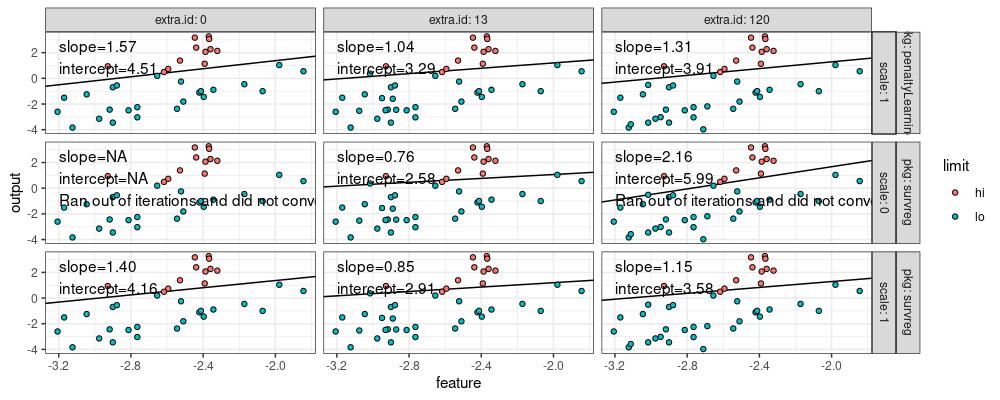
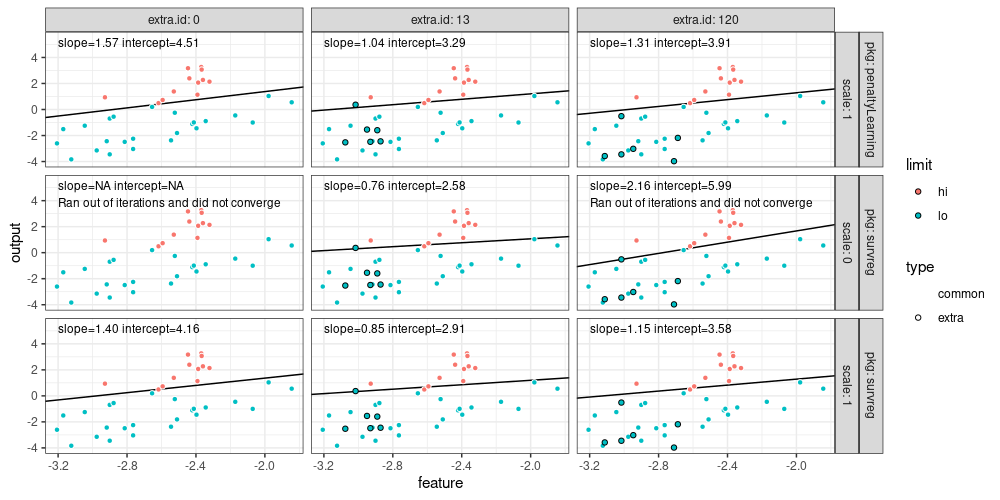
redo figure

Changed region(s): [[0.0, 0.0, 0.992, 0.99]]

diff --git a/_posts/2024-08-20-bisect-survival.md b/_posts/2024-08-20-bisect-survival.md
@@ -19,7 +19,7 @@ doctors who were interested in classifying tumors based on their DNA
 copy number profiles. These data sets are like time series, but
 measured along space (positions on a chromosome), rather than time. If
 there are abrupt changes within a sequence, then the tumor is said to
-have ``segmental copy number alternations,'' and is likely to require
+have "segmental copy number alternations," and is likely to require
 more aggressive treatment (compared to a more benign sub-type in which
 these abrupt changes are not present).
 
@@ -94,35 +94,43 @@ linear models, as described in the recent [JSS
 paper](https://www.jstatsoft.org/article/view/v106i01).
 
 Another supervised change-point detection algorithm, similar to our
-ICML'13 paper, was proposed by Charles Truong in EUSIPCO'17, but there
-is no R package that implements this method.
+ICML'13 paper, was proposed by Truong et al in
+[EUSIPCO'17](http://laurentoudre.fr/publis/TOV-EUSIPCO-17.pdf), but
+there is no R package that implements this method.
 
 ## Issue
 
-Back in 2017 when I was preparing the tutorial for useR, I ran into an
-[issue](https://github.com/therneau/survival/issues/8) about `survreg`
-not converging when all train labels are censored. After that fix,
+Back in 2017 when I was preparing the tutorial for useR, I ran into an issue, which I posted as
+[survival/issue#8](https://github.com/therneau/survival/issues/8) about `survreg`
+not converging when all train labels are censored. In the case of my data, all outputs
+are censored, which is normal for supervised change-point problems,
+but rather unusual for survival analysis (where there is typically at
+least one observation that is not censored). Because the "all
+censored" train data is a rather niche use case for the survival AFT
+model, I suppose it is not very well tested, so it is normal to expect
+issues with such code. 
+
+After that issue was eventually fixed, 
 survreg worked well enough so that I could use it to prepare [my
 useR'17 tutorial on supervised change-point
 detection](https://tdhock.github.io/change-tutorial/Supervised.html). 
-
 Recently, a GSOC student tried reproducing some code from that time. 
 
-* The related [issue#1](https://github.com/tdhock/change-tutorial/issues/1) begin with Nhi observing the error "Supplied 2 items to be assigned to 1 items."
+* The related issue, [change-tutorial/issue#1](https://github.com/tdhock/change-tutorial/issues/1) begins with Nhi observing the error "Supplied 2 items to be assigned to 1 items."
 * Using current R-4.4.1, I re-ran [my old R
   code from 2017](https://github.com/tdhock/change-tutorial/blob/efbec88d4d7e77f16f0cdc8a56ea17709b576852/figure-regression-interactive-some.R),
   which gave me warning "Ran out of iterations and did not converge" and
   error "pred must be a numeric vector or matrix with neither missing
   nor infinite entries" and saw that the problem was that survreg is
-  returning missing values for the learned coefficients.
+  returning missing values for the learned coefficients (where finite values were expected in the previous code).
 * I made a copy of the R code, and edited it to make [a minimal
   reproducible example which demonstrates the bug](
   https://github.com/tdhock/change-tutorial/blob/master/figure-regression-interactive-some-bug.R).
-  That code runs survreg with three small data sets (few dozen data each).
-  Running that code with `survival_3.6-4` I get
-  * extra.id=0 NA coefs, convergence failed. Here I expected finite coefs, as I observed in 2017.
-  * extra.id=13 finite coefs, converged.
-  * extra.id=120 finite coefs, convergence failed.
+  That code runs survreg with three small data sets, each identified with a different value of `extra.id`, and each with a few dozen data/rows.
+  Running that code with `survival_3.6-4` I get the following results, for the data with:
+  * `extra.id=0`: NA coefs, convergence failed. Here I expected finite coefs, as I observed in 2017, after Terry fixed [survival/issue#8](https://github.com/therneau/survival/issues/8).
+  * `extra.id=13`: finite coefs, converged. This was an expected result.
+  * `extra.id=120`: finite coefs, convergence failed. This was also unexpected, because it is inconsistent with the other two data sets above.
 * I filed
   [survival/issue#270](https://github.com/therneau/survival/issues/270),
   which includes a figure that illustrates the issue, along with the
@@ -149,19 +157,12 @@ Another work-around involves understanding how the survreg
 optimization algorithm works. The survreg algorithm uses gradient
 descent, which optimizes the coefficients to fit the train data
 (maximize AFT log likelihood). Using the default `scale=0` means to
-also optimize the scale parameter. In the case of my data, all outputs
-are censored, which is normal for supervised change-point problems,
-but rather unusual for survival analysis (where there is typically at
-least one observation that is not censored). Because the "all
-censored" train data is a rather niche use case for the survival AFT
-model, I suppose it is not very well tested, so it is normal to expect
-issues with such code. With the case of small data which are all
-censored, there is another issue: the data may be separable, which
+also optimize the scale parameter. With the case of small data which are all
+censored, there is an issue with optimizing the scale: the data may be separable, which
 means there is a regression line that correctly predicts inside of
 every interval label in the train set. In that case, decreasing the
 scale parameter (subject to the constraint that it must stay positive)
-will always increase the log likelihood, resulting in an optimization
-problem that is singular (undefined solution). To work-around that
+will always increase the log likelihood. To work-around that
 issue, you could use `survreg(scale=1)` which means to fix the scale
 parameter to the (relatively large) value of 1, instead of optimizing
 it in gradient descent. 
@@ -478,12 +479,18 @@ model.df <- rbind(
   data.frame(pkg="penaltyLearning", scale=1),
   data.frame(pkg="survreg", scale=0),
   data.frame(pkg="survreg", scale=1))
+common.ids <- c(1, 4, 6, 8, 10, 11)
 dot.df.list <- list()
 coef.df.list <- list()
 for(extra.id in c(0,13,120)){
-  sub.df <- subset(full.df, id %in% c(1, 4, 6, 8, 10, 11, extra.id))
+  sub.df <- transform(
+    subset(full.df, id %in% c(common.ids, extra.id)),
+    type=ifelse(id %in% common.ids, "common", "extra"))
+  X <- with(sub.df, cbind(1, feature))
+  print(chol(t(X) %*% X))
   for(model.i in 1:nrow(model.df)){
     model.row <- model.df[model.i,]
+    rownames(model.row) <- NULL
     model.fun <- model.fun.list[[model.row$pkg]]
     this.df <- data.frame(extra.id, model.row, warn.text="")
     set.warn <- function(w)this.df$warn.text <<- w$message
@@ -494,18 +501,20 @@ for(extra.id in c(0,13,120)){
     }
     withCallingHandlers(set.coefs(), warning=set.warn)
     coef.df.list[[paste(extra.id, model.i)]] <- this.df
-    dot.df.list[[paste(extra.id, model.i)]] <- with(sub.df, data.frame(
+    dot.df.list[[paste(extra.id, model.i)]] <- data.frame(
       extra.id, model.row,
-      rbind(
-        data.frame(limit="lo", output=lo, feature),
-        data.frame(limit="hi", output=hi, feature))))
+      with(sub.df, data.frame(feature, type, rbind(
+        data.frame(limit="lo", output=lo),
+        data.frame(limit="hi", output=hi))))
+    )
   }
 }
 ```
 
 ```
-## Warning in data.frame(extra.id, model.row, rbind(data.frame(limit = "lo", : les noms de lignes sont trouvés dans une
-## variable courte et ont été éliminés
+##              feature
+##         6 -15.513144
+## feature 0   1.966648
 ```
 
 ```
@@ -514,30 +523,17 @@ for(extra.id in c(0,13,120)){
 ```
 
 ```
-## Warning in data.frame(extra.id, model.row, rbind(data.frame(limit = "lo", : les noms de lignes sont trouvés dans une
-## variable courte et ont été éliminés
-## Warning in data.frame(extra.id, model.row, rbind(data.frame(limit = "lo", : les noms de lignes sont trouvés dans une
-## variable courte et ont été éliminés
-## Warning in data.frame(extra.id, model.row, rbind(data.frame(limit = "lo", : les noms de lignes sont trouvés dans une
-## variable courte et ont été éliminés
-## Warning in data.frame(extra.id, model.row, rbind(data.frame(limit = "lo", : les noms de lignes sont trouvés dans une
-## variable courte et ont été éliminés
-## Warning in data.frame(extra.id, model.row, rbind(data.frame(limit = "lo", : les noms de lignes sont trouvés dans une
-## variable courte et ont été éliminés
-## Warning in data.frame(extra.id, model.row, rbind(data.frame(limit = "lo", : les noms de lignes sont trouvés dans une
-## variable courte et ont été éliminés
+##                     feature
+##         6.480741 -17.098652
+## feature 0.000000   2.145202
+##                     feature
+##         6.480741 -17.061128
+## feature 0.000000   2.139963
 ```
 
 ```
 ## Warning in survreg.fit(X, Y, weights, offset, init = init, controlvals = control, : Ran out of iterations and did not
 ## converge
-```
-
-```
-## Warning in data.frame(extra.id, model.row, rbind(data.frame(limit = "lo", : les noms de lignes sont trouvés dans une
-## variable courte et ont été éliminés
-## Warning in data.frame(extra.id, model.row, rbind(data.frame(limit = "lo", : les noms de lignes sont trouvés dans une
-## variable courte et ont été éliminés
 ```
 
 ``` r
@@ -580,14 +576,18 @@ ggplot()+
     data=coef.df)+
   facet_grid(pkg + scale ~ extra.id, labeller=label_both)+
   geom_point(aes(
-    feature, output, fill=limit),
+    feature, output, fill=limit, color=type),
     shape=21,
     data=dot.df)+
+  scale_color_manual(values=c(
+    common="white",
+    extra="black"))+
   geom_text(aes(
-    -3.2, 3, label=sprintf(
-      "slope=%.2f\nintercept=%.2f\n%s", slope, intercept, warn.text)),
+    -3.2, 5.5, label=sprintf(
+      "slope=%.2f intercept=%.2f\n%s", slope, intercept, warn.text)),
     vjust=1,
     hjust=0,
+    size=3,
     data=coef.df)
 ```
 
@@ -653,14 +653,7 @@ out.csv <- gsub("[ ()]", "_", paste0(
   "survival",
   packageVersion("survival"),
   ".csv"))
-dir.create(dirname(out.csv))
-```
-
-```
-## Warning in dir.create(dirname(out.csv)): '/home/tdhock/R/survreg-data' existe déjà
-```
-
-``` r
+dir.create(dirname(out.csv), showWarnings = FALSE)
 write.csv(coef.df, out.csv, row.names=FALSE)
 ```
 
@@ -780,8 +773,9 @@ continuity between versions -- there is one change that introduced the
 bug). In our case there were 20 versions, so we test the one in the
 middle, now there are only 10, next step there are only 5, then 3 (or
 2), then 2 (or 1), then finally only one left to test. So we test 7
-versions using this algorithm, which is much faster than 20 which we
-would need for linear search.
+versions using this algorithm (asymptotically log2 of the number of
+versions in between known good/old and bad/new versions), which is much
+faster than 20 versions which we would need to test using linear search.
 
 Now that we have found the CRAN release version, we may ask, what git
 commit is responsible? We can use the `git bisect` command, as I did
@@ -817,7 +811,7 @@ HEAD est maintenant sur 3f8f3e9 Add trust regions to coxph.
 ```
 
 The output above shows the commits we can use, old=dbf56fa,
-new=3f8f3e9. The code below compute the bisect.
+new=3f8f3e9. The code below computes the bisect.
 
 ```
 (base) tdhock@tdhock-MacBook:~/R/survival$ git bisect start
@@ -889,9 +883,9 @@ index d4da378..edc9ad5 100644
 
 The code above shows that a typo `coeffients` was changed to
 `coefficients`, in a line that assigns `NA`, which explains why we see
-missing values in survreg output (when singular). This may actually be
-interpreted as a feature/fix, rather than a bug, because there is
-technically no solution when data are separable/problem is singular.
+missing values in survreg output (when singular). Does singular mean the same as separable? This may actually be
+interpreted as a feature/fix, rather than a bug, because the scale of the solution
+is undefined when the data are separable (several different scale parameters have the same max likelihood).
 
 ## Conclusion
 
@@ -905,8 +899,8 @@ coefficients, and the scatterplot appears to be separable. It seems to
 me that this is inconsistent with the results we observe for
 `extra.id=0` (no convergence, missing coefficients). I would suggest
 that `survreg` should return missing values for both cases, or finite
-values for both cases. More generally, if the data are separable, and
-the problem is singular, then it is reasonable for `survreg` to return
-missing coefficients. On the other hand, a warning is sufficient to
-alert the user, and returning finite coefficients (last iteration of
-gradient descent before giving up) still may be useful to the user.
+values for both cases. More generally, if the data are separable, then
+it is reasonable for `survreg` to return missing coefficients. On the
+other hand, a warning is sufficient to alert the user, and returning
+finite coefficients (last iteration of gradient descent before giving
+up) still may be useful to the user.
